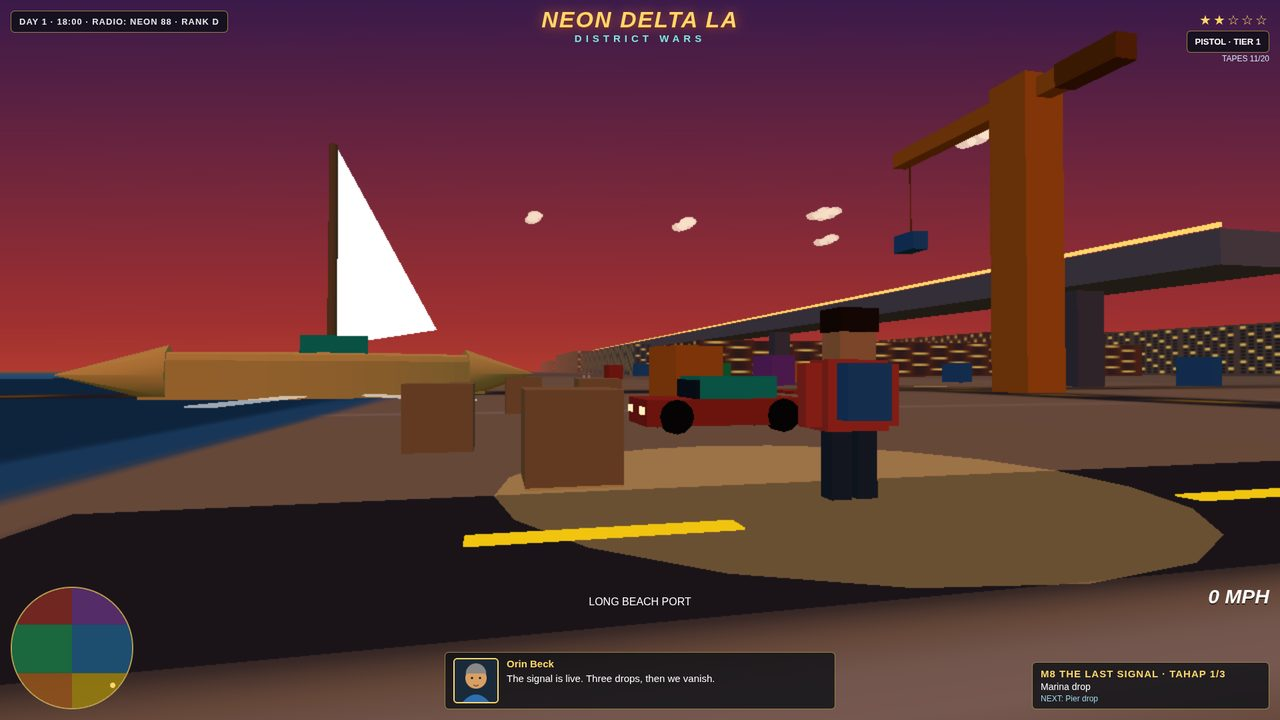
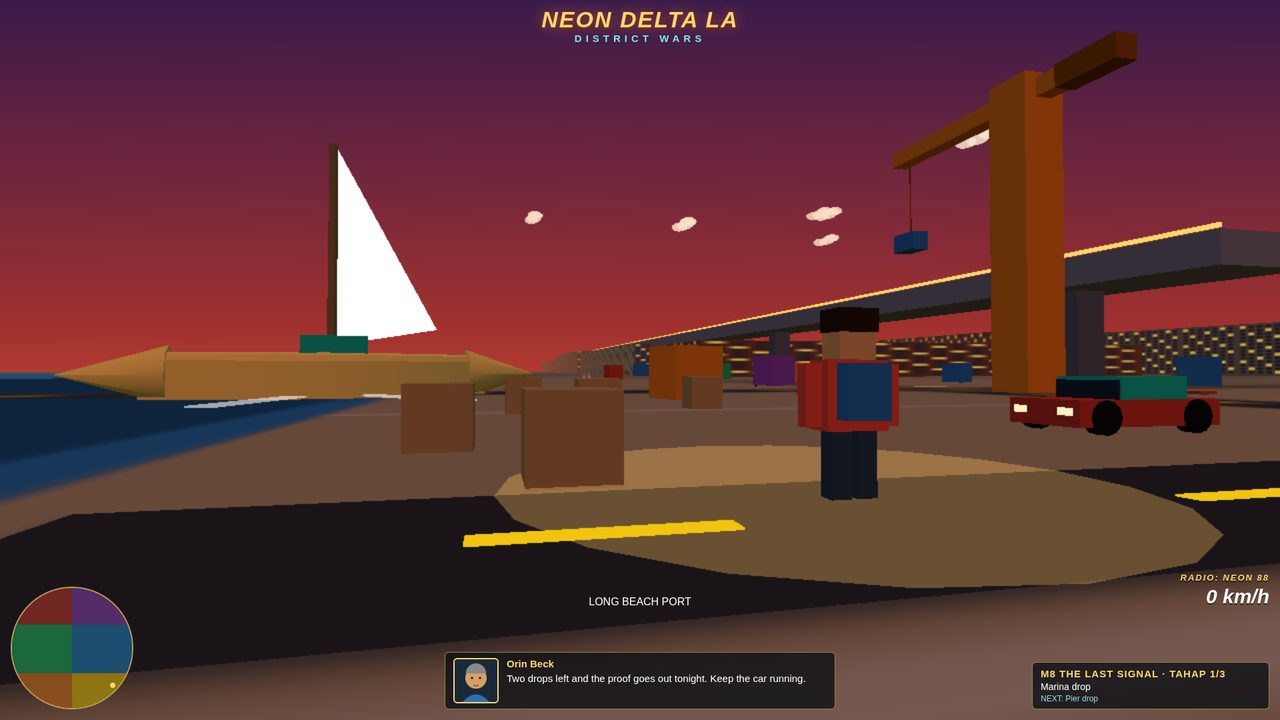
v32: HUD declutter + shot 2/3/4 polish
- Shot-mode HUD: hide stats bar, wanted stars, weapon-tier chip, tapes
  counter (v27 declutter restored); radio rides above speed, km/h back.
- Shot 2: billboard 32x10 -> 28x8 at y=14; shop bench moved into frame.
- Shot 3: camera back 5u, wheel radius 20 -> 19 (full rim in frame);
  support legs are vertical posts flanking Mara, not crossing her.
- Shot 4: hero car (615,615) -> (620,596), fully visible side-on.
- Dialogue restored to v30 lines (M2 Harlan, M7 Inez, M8 Orin).

diff --git a/game/src/shots.js b/game/src/shots.js
@@ -30,16 +30,16 @@ export const SHOT_DEFS = {
     crates: [[-350, -190], [-345, -185]],
     peds: [[-342, -160], [-310, -165], [-342, -185], [-305, -190], [-340, -200]],
     forecourtPeds: [[-348, -152], [-312, -152], [-346, -168], [-316, -170]],
-    dialogue: { name: 'Harlan Dray', text: 'The canals run hot tonight. Move the package, no questions.' },
+    dialogue: { name: 'Harlan Dray', text: 'The canals are quiet tonight. Keep the package moving.' },
     missionBar: { title: 'M2 VENICE CANALS · TAHAP 1/2', objective: 'Meet Harlan', next: 'Drop the package' },
   },
   3: {
     hour: 22, mission: 7, wanted: 1, money: 4800, cover: 85, tapes: 7, sky: 'night',
     standing: { pier: 20 },
-    camera: { x: -639, y: 1.8, z: 428 }, look: { x: -705, y: 4, z: 428 },
+    camera: { x: -634, y: 1.8, z: 428 }, look: { x: -705, y: 4, z: 428 },
     // Mara 3 units south of the camera axis: the wheel hub clears her silhouette.
     mara: { x: -652, z: 431, rot: -Math.PI / 2, scale: 1.8 },
-    wheel: { x: -705, z: 428, radius: 20, hubY: 20 },
+    wheel: { x: -705, z: 428, radius: 19, hubY: 20 },
     stalls: [
       { label: 'BALLOONS', x: -690, z: 410, color: 0xe74c3c },
       { label: 'SNO-CONES', x: -690, z: 445, color: 0xf1c40f },
@@ -53,7 +53,7 @@ export const SHOT_DEFS = {
     peds: [[-665, 412], [-665, 444], [-668, 418], [-668, 438], [-663, 425], [-663, 435]],
     nearPeds: [[-652, 418], [-652, 438]],
     confetti: { x: -700, z: 430 },
-    dialogue: { name: 'Inez Vargas', text: 'The ledger names them all. Take it and vanish into the crowd.' },
+    dialogue: { name: 'Inez Vargas', text: 'The ledger is under the boards. Take it and go before the lights come on.' },
     missionBar: { title: 'M7 THE NIGHT LEDGER · TAHAP 1/3', objective: 'Meet Inez', next: 'Take the ledger' },
   },
   4: {
@@ -61,7 +61,9 @@ export const SHOT_DEFS = {
     standing: { port: 15 },
     camera: { x: 645, y: 3, z: 626 }, look: { x: 585, y: 4, z: 612 },
     mara: { x: 632, z: 618, rot: -Math.PI / 2, scale: 1.8 },
-    car: { x: 615, z: 615, rot: Math.PI, scale: 1.8 },
+    // v32: car moved north of Mara's sightline so it reads fully side-on
+    // (at 615,615 it sat directly behind her from the camera).
+    car: { x: 620, z: 596, rot: Math.PI, scale: 1.8 },
     // Boat pulled 4 units north of the v30 spot so the hull clears the frame edge.
     boat: { x: BOAT.x, z: BOAT.z, rot: 1.84, scale: 3.6 },
     wake: { x: 565, z: 641 },
@@ -70,7 +72,7 @@ export const SHOT_DEFS = {
     portRoad: { x: 633.9, z: 608.4 },
     greenContainer: { x: 600, z: 520 },
     yardPeds: [[400, 520], [440, 560], [500, 540], [460, 600], [540, 580], [380, 560], [470, 600], [585, 605]],
-    dialogue: { name: 'Orin Beck', text: 'The signal is live. Three drops, then we vanish.' },
+    dialogue: { name: 'Orin Beck', text: 'Two drops left and the proof goes out tonight. Keep the car running.' },
     missionBar: { title: 'M8 THE LAST SIGNAL · TAHAP 1/3', objective: 'Marina drop', next: 'Pier drop' },
   },
 };

diff --git a/game/src/scene.js b/game/src/scene.js
@@ -317,11 +317,12 @@ export function makeWheel(radius) {
     cab.position.set(Math.cos(a) * radius, Math.sin(a) * radius, 0);
     g.add(cab);
   }
+  // v32: vertical support posts flanking the wheel — the splayed legs crossed
+  // behind Mara's silhouette in shot 3. Posts stand clear of her.
   const legMat = new THREE.MeshLambertMaterial({ color: 0x555555 });
   for (const s of [-1, 1]) {
     const leg = new THREE.Mesh(new THREE.BoxGeometry(1, radius, 1), legMat);
-    leg.position.set(s * radius * 0.5, -radius / 2, 0);
-    leg.rotation.z = s * 0.5;
+    leg.position.set(s * radius * 0.85, -radius / 2, 0);
     g.add(leg);
   }
   return g;
@@ -492,8 +493,8 @@ export function createGame(canvas, world) {
   shopFront.position.set(0, 5, 15.5); shop.add(shopFront);
   const shopSign = new THREE.Mesh(new THREE.PlaneGeometry(30, 4), new THREE.MeshBasicMaterial({ map: textTex('DELTA ARMS', { w: 1024, h: 128, bg: '#111111', fg: '#ffd76a', font: 'bold 72px Arial' }) }));
   shopSign.position.set(0, 8, 16.1); shop.add(shopSign);
-  const bill = new THREE.Mesh(new THREE.PlaneGeometry(32, 10), new THREE.MeshBasicMaterial({ map: textTex('NEON DELTA LA', { w: 1024, h: 320, bg: '#c0392b', fg: '#ffffff', font: 'bold 96px Arial', sub: 'DISTRICT WARS' }) }));
-  bill.position.set(0, 15, 16.1); shop.add(bill);
+  const bill = new THREE.Mesh(new THREE.PlaneGeometry(28, 8), new THREE.MeshBasicMaterial({ map: textTex('NEON DELTA LA', { w: 1024, h: 320, bg: '#c0392b', fg: '#ffffff', font: 'bold 96px Arial', sub: 'DISTRICT WARS' }) }));
+  bill.position.set(0, 14, 16.1); shop.add(bill);
   shop.position.set(SHOP.x, 0, SHOP.z);
   scene.add(shop);
 
@@ -562,7 +563,7 @@ export function createGame(canvas, world) {
   scene.add(policeCar);
   const parkedCar = makeCar(0xf1c40f, 0x2c3e50);
   scene.add(parkedCar);
-  const wheel = makeWheel(20);
+  const wheel = makeWheel(19);
   wheel.position.set(-705, 20, 428);
   wheel.rotation.y = Math.PI / 2;
   scene.add(wheel);
@@ -581,7 +582,7 @@ export function createGame(canvas, world) {
   scene.add(confetti);
   const bench1 = makeBench(); bench1.position.set(-660, 0, 415); bench1.rotation.y = Math.PI / 2; scene.add(bench1);
   const bench2 = makeBench(); bench2.position.set(-660, 0, 440); bench2.rotation.y = Math.PI / 2; scene.add(bench2);
-  const shopBench = makeBench(); shopBench.position.set(-390, 0, -190); scene.add(shopBench);
+  const shopBench = makeBench(); shopBench.position.set(-370, 0, -200); scene.add(shopBench);
   const shopCrates = [];
   for (const [x, z] of [[-350, -190], [-345, -185]]) {
     const c = makeCrate(2.5, 0xc8a06a);

diff --git a/game/index.html b/game/index.html
@@ -22,7 +22,7 @@
   #hud-district { left: 50%; transform: translateX(-50%); bottom: 168px; text-align: center; background: none; border: none; }
   #hud-district .d1 { font-size: 44px; font-weight: 900; font-style: italic; letter-spacing: 2px; color: #fff; text-shadow: 0 3px 0 rgba(0,0,0,0.6), 0 0 22px rgba(255, 120, 40, 0.5); }
   #hud-district .d2 { font-size: 13px; font-weight: 700; letter-spacing: 2px; color: #ffd76a; }
-  #hud-speed { right: 16px; bottom: 168px; font-size: 30px; font-weight: 900; font-style: italic; color: #fff; text-shadow: 0 2px 0 rgba(0,0,0,0.6); }
+  #hud-speed { right: 16px; bottom: 168px; font-size: 30px; font-weight: 900; font-style: italic; color: #fff; text-shadow: 0 2px 0 rgba(0,0,0,0.6); text-align: right; }
   #hud-mission { right: 16px; bottom: 16px; width: 330px; }
   #hud-mission b { display: block; font-size: 15px; color: #ffd76a; letter-spacing: 1px; }
   #hud-mission span { display: block; font-size: 14px; color: #fff; margin-top: 3px; }
@@ -45,7 +45,11 @@
   body.shot1 #wheel, body.shot2 #wheel, body.shot3 #wheel, body.shot4 #wheel,
   body.shot1 #shop-panel, body.shot2 #shop-panel, body.shot3 #shop-panel, body.shot4 #shop-panel,
   body.shot1 #hud-cover, body.shot2 #hud-cover, body.shot3 #hud-cover, body.shot4 #hud-cover,
-  body.shot1 #hud-money, body.shot2 #hud-money, body.shot3 #hud-money, body.shot4 #hud-money { display: none !important; }
+  body.shot1 #hud-money, body.shot2 #hud-money, body.shot3 #hud-money, body.shot4 #hud-money,
+  body.shot1 #hud-stats, body.shot2 #hud-stats, body.shot3 #hud-stats, body.shot4 #hud-stats,
+  body.shot1 #hud-wanted, body.shot2 #hud-wanted, body.shot3 #hud-wanted, body.shot4 #hud-wanted,
+  body.shot1 #hud-weapon, body.shot2 #hud-weapon, body.shot3 #hud-weapon, body.shot4 #hud-weapon,
+  body.shot1 #hud-tapes, body.shot2 #hud-tapes, body.shot3 #hud-tapes, body.shot4 #hud-tapes { display: none !important; }
   #title-screen { position: fixed; inset: 0; z-index: 20; display: flex; flex-direction: column; align-items: center; justify-content: center; background: linear-gradient(180deg, rgba(20,8,40,0.92), rgba(10,14,20,0.96)); color: #fff; text-align: center; }
   #title-screen.hidden { display: none; }
   #title-screen h1 { font-size: 64px; font-style: italic; font-weight: 900; color: #ffd76a; margin: 0; letter-spacing: 2px; text-shadow: 0 4px 0 #7a2a1a; }

diff --git a/game/src/hud.js b/game/src/hud.js
@@ -53,7 +53,14 @@ export function updateHUD(world, shotN) {
   const d = districtAt(world.player.x, world.player.z);
   els.district.textContent = d.name.toUpperCase();
   els.standing.textContent = 'STANDING ' + Math.round(world.standing[d.id] || 0);
-  els.speed.textContent = Math.round(Math.abs(world.car.speed) * 3.2) + ' MPH';
+  const spd = Math.round(Math.abs(world.car.speed) * 3.2) + ' km/h';
+  // v32: in staged shots the radio line rides above the speed (the top stats
+  // bar is hidden by the shot-mode declutter CSS); live play keeps plain speed.
+  if (shotN >= 1 && shotN <= 4) {
+    els.speed.innerHTML = '<span style="font-size:13px;letter-spacing:2px;color:#ffd76a">RADIO: NEON 88</span><br>' + spd;
+  } else {
+    els.speed.textContent = spd;
+  }
   els.mission.innerHTML = '<b>' + missionTitle + '</b><span>' + objective + '</span><i>NEXT: ' + next + '</i>';
   els.stats.textContent = 'DAY ' + world.day + ' · ' + fmtHour(world.hour) + ' · RADIO: NEON 88 · RANK ' + world.rank;
   if (speaker) {
